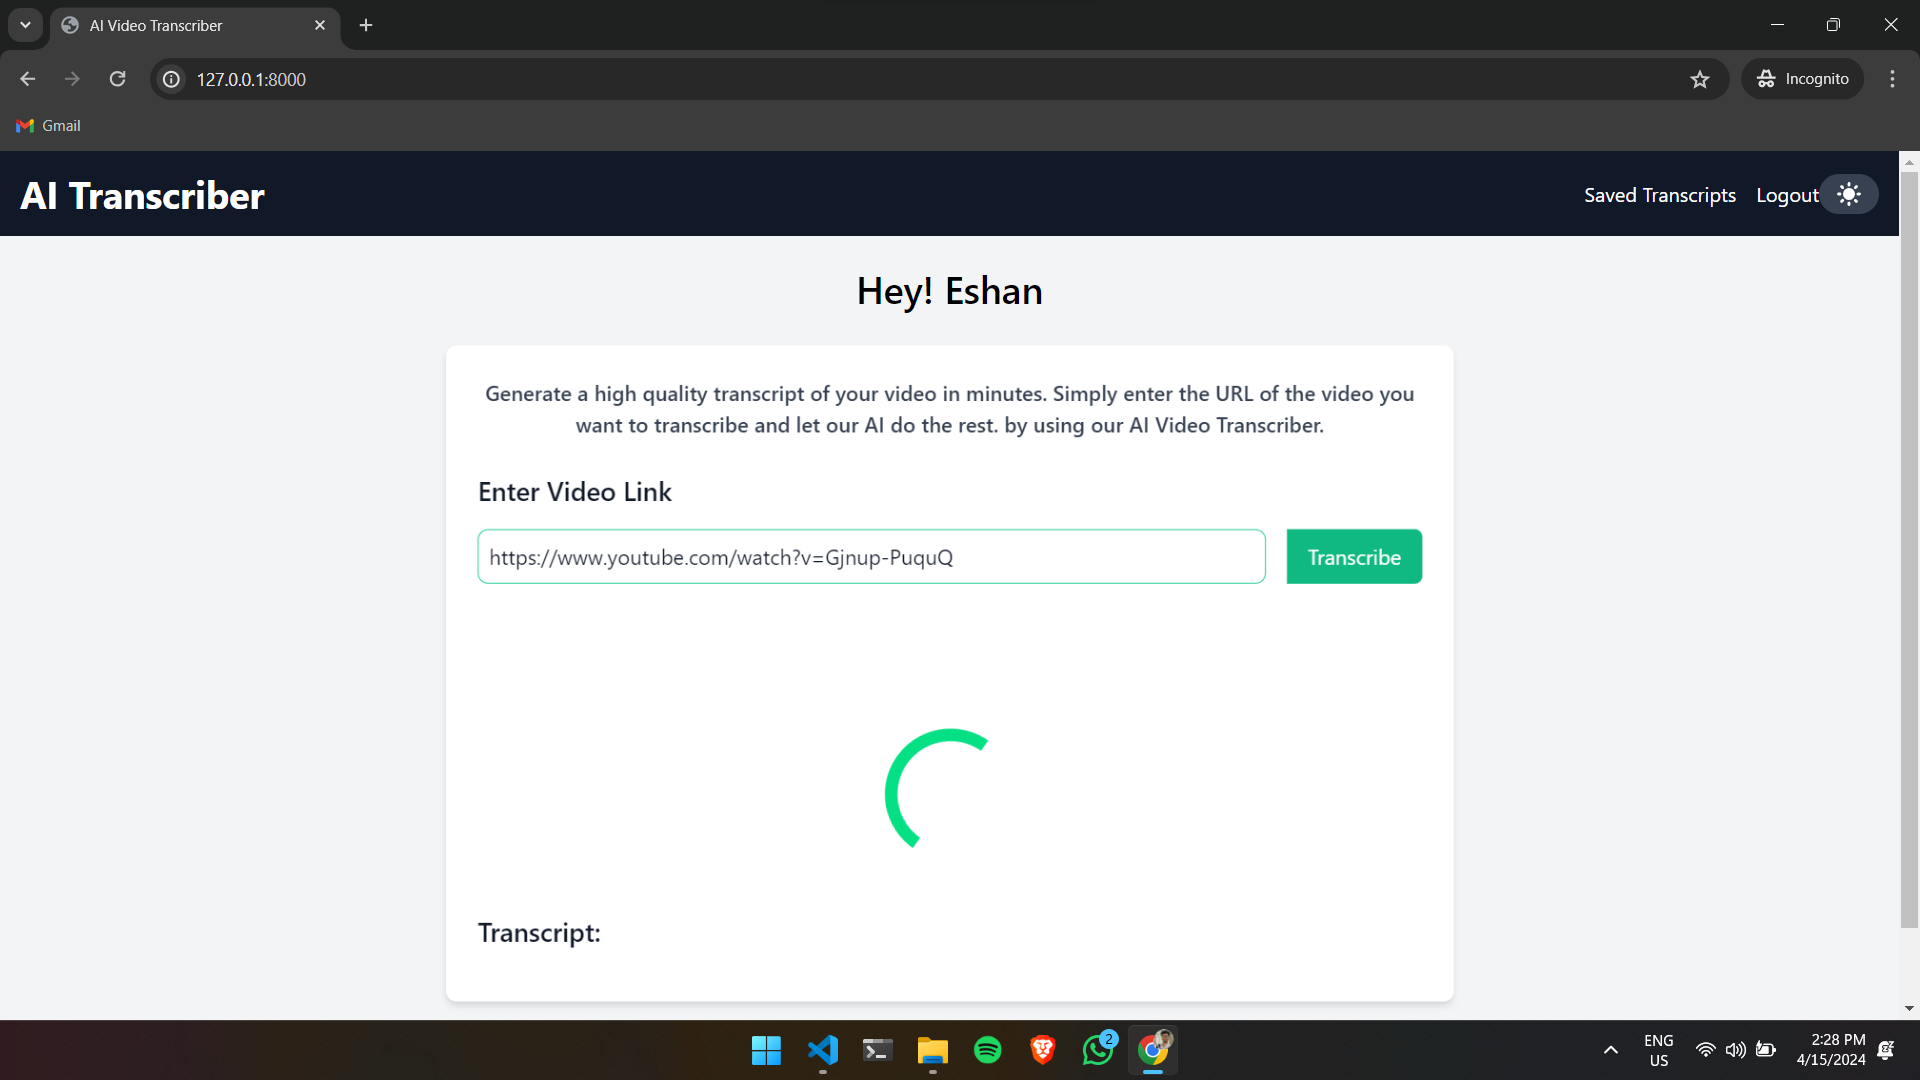
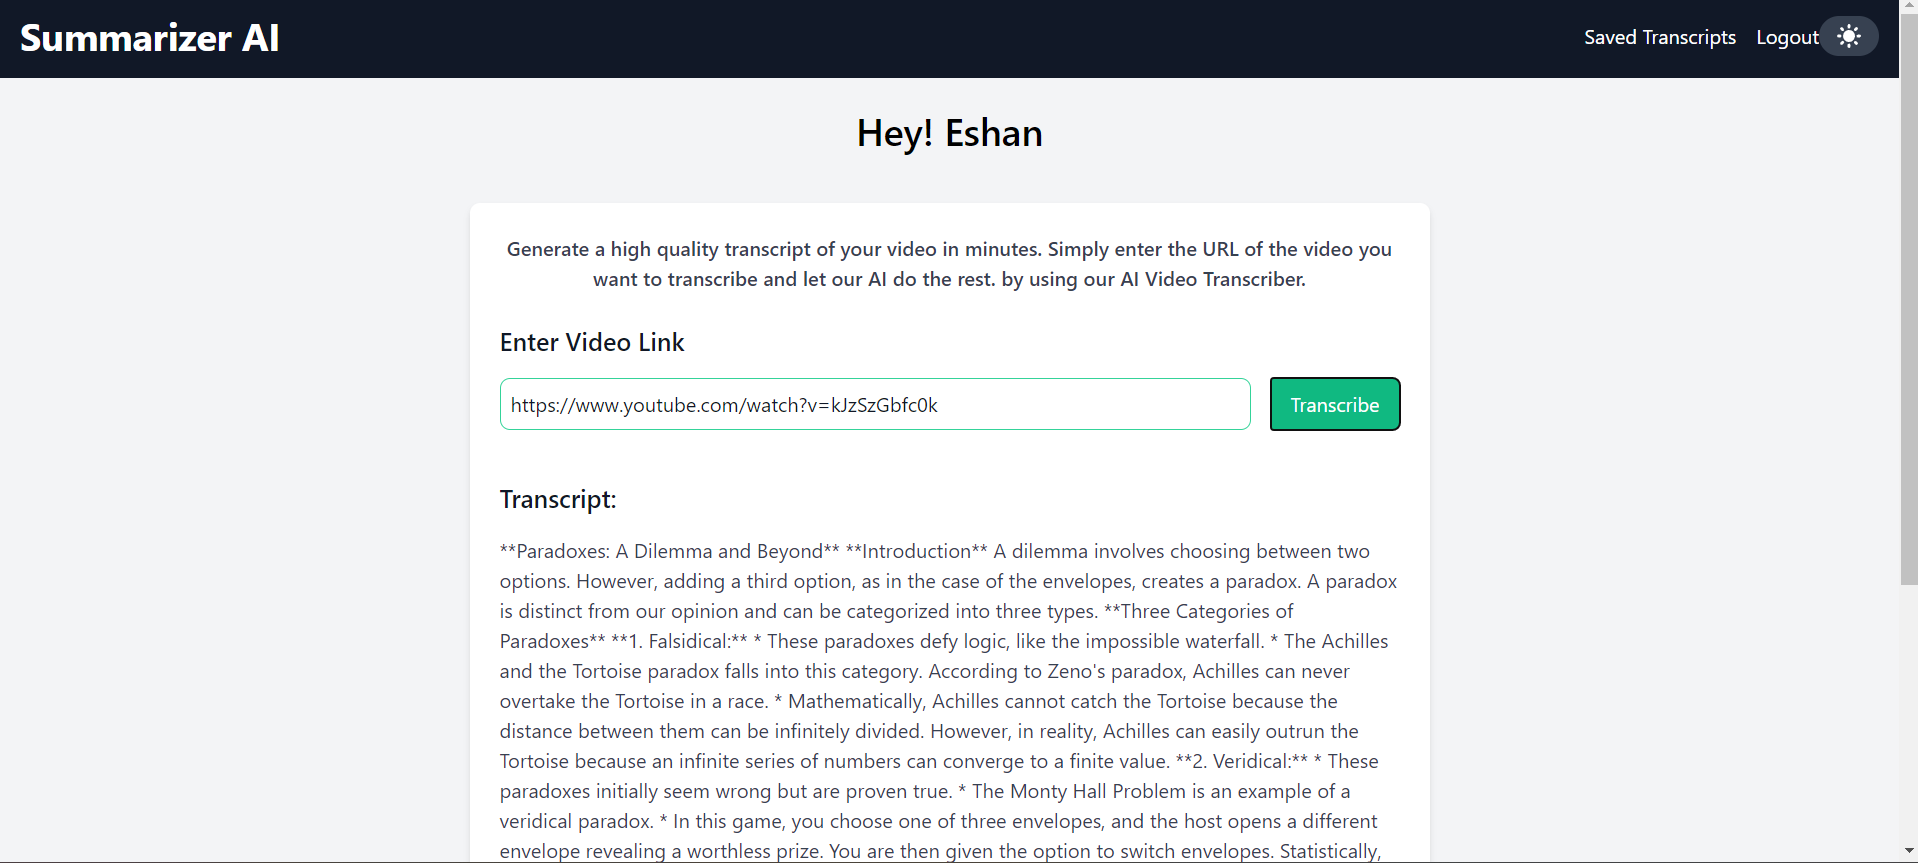
readme and saving

diff --git a/backend/ai_transcriber_app/templates/full-article.html b/backend/ai_transcriber_app/templates/full-article.html
@@ -5,17 +5,19 @@
     <meta name="viewport" content="width=device-width, initial-scale=1.0">
     <title>Transcript Details</title>
   <link href="https://cdn.jsdelivr.net/npm/tailwindcss@2.2.19/dist/tailwind.min.css" rel="stylesheet">
+  <link rel="stylesheet" href="https://cdnjs.cloudflare.com/ajax/libs/font-awesome/4.7.0/css/font-awesome.min.css" />
+
 
 </head>
 <body class="bg-gray-100 font-sans antialiased">
   <!-- Navbar -->
   <nav class="bg-gray-900 dark:bg-gray-800 p-4 text-white flex justify-between">
     <div>
-      <h1 class="text-3xl font-bold">AI Transcriber</h1>
+      <h1 class="text-3xl font-bold">Summarizer AI</h1>
     </div>
     <div class="flex items-center">
       <a href="" class="text-white hover:underline mx-4">Saved Transcripts</a>
-      <a href="" class="text-white hover:underline">Logout</a>
+      <a href="{% url 'logout' %}" class="text-white hover:underline">Logout</a>
       <!-- Dark Mode Button -->
       <button id="darkModeToggle" class="bg-gray-700 dark:bg-yellow-300 text-white dark:text-gray-800 rounded-full px-3 py-1 transition-colors duration-300">
         <svg id="sunIcon" class="w-6 h-6 dark:hidden" fill="currentColor" viewBox="0 0 20 20" xmlns="http://www.w3.org/2000/svg">
@@ -32,22 +34,21 @@
     <div class="container mx-auto mt-10 px-4 sm:px-0">
         <div class="max-w-3xl mx-auto bg-white p-6 rounded-lg shadow-md">
     <section>
-        <h2 class="text-xl mb-4 font-semibold">Full Transcript</h2>
+        <h2 class="text-xl mb-4 font-semibold">Full Summary</h2>
         <div class="border border-gray-300 p-4 rounded-lg">
-            <h3 class="text-lg font-semibold">TITLE OF Transcript</h3>
-            <p>THIS IS THE TRANSCRPT</p>
+            <h3 class="text-lg font-semibold">{{full_article.video_title}}</h3>
+            <p>{{full_article.generated_content}}</p>
             <hr class="my-4 border-gray-300"></hr>
-            <h4 class="text-lg font-semibold">Video Title</h4>
-            <p class="text-gray-700">Title of the transcibed video</p>
-            <h4 class="text-lg font-semibold mt-4 ">Link to the video</h4>
-            <a href="#" class="text-blue-600 hover:underline">https://www.youtube.com/watch?v=JGwWNGJdvx8</a>
+            <h4 class="text-lg font-semibold">{{full_article.video_title}}</h4>
+            <p class="text-gray-700">{{full_article.video_title}}</p>
+            <h4 class="text-lg font-semibold mt-4 ">YouTube Link</h4>
+            <a href="#" class="text-blue-600 hover:underline">{{full_article.youtube_link}}</a>
         </div>
     </section>
     
     <footer>
         <div class="text-center p-4 text-black mt-8">
             <div class="content has-text-centered">
-                <p>Made with ❤</p>
                 <a href="https://github.com/eshanpandey"><i class="fa fa-github" style="font-size:36px"></i></a>
             </div>
         </div>

diff --git a/backend/ai_transcriber_app/templates/all-scripts.html b/backend/ai_transcriber_app/templates/all-scripts.html
@@ -11,7 +11,7 @@
 <body class="bg-gray-100 font-sans anti">
     <nav class="bg-gray-900 dark:bg-gray-800 p-4 text-white flex justify-between">
         <div>
-          <h1 class="text-3xl font-bold">AI Transcriber</h1>
+          <h1 class="text-3xl font-bold">Summarizer AI</h1>
         </div>
         <div class="flex items-center">
           <a href="" class="text-white hover:underline mx-4">Saved Transcripts</a>
@@ -34,15 +34,15 @@
     <section>
         <h2 class="text-xl mb-4 font-semibold ">All Transcripts</h2>
         <div class="space-y-4">
+
+          {% for article in articles reversed %}
+          <a href="full-article/{{article.id}}">
            <div class="border border-gray-300 p-4 rounded-lg">
-            <h3 class="text-lg font-semibold" >Transcripts title</h3>
-            <p>Transcript content goes here.</p>
+            <h3 class="text-lg font-semibold" >{{article.video_title}}</h3>
+            <p>{{article.generated_content|truncatechars:80}}</p>
            </div>
-           <div class="border border-gray-300 p-4 rounded-lg">
-            <h3 class="text-lg font-semibold" >Transcripts title</h3>
-            <p>Transcript content goes here.</p>
-           </div>
-           
+           </a>
+           {% endfor %}
         </div>
     </section>
 </div>
@@ -50,7 +50,7 @@
     <footer>
         <div class="text-center p-4 text-black mt-8">
             <div class="content has-text-centered">
-                <p>Made with ❤</p>
+              
                 <a href="https://github.com/eshanpandey"><i class="fa fa-github" style="font-size:36px"></i></a>
             </div>
         </div>

diff --git a/backend/ai_transcriber_app/templates/index.html b/backend/ai_transcriber_app/templates/index.html
@@ -3,7 +3,7 @@
 <head>
   <meta charset="UTF-8">
   <meta name="viewport" content="width=device-width, initial-scale=1.0">
-  <title>AI Video Transcriber</title>
+  <title>Summarizer AI</title>
   <link href="https://cdn.jsdelivr.net/npm/tailwindcss@2.2.19/dist/tailwind.min.css" rel="stylesheet">
   <link rel="stylesheet" href="https://cdnjs.cloudflare.com/ajax/libs/font-awesome/4.7.0/css/font-awesome.min.css" />
   
@@ -56,7 +56,7 @@
   <!-- Navbar -->
   <nav class="bg-gray-900 dark:bg-gray-800 p-4 text-white flex justify-between">
     <div>
-      <h1 class="text-3xl font-bold">AI Transcriber</h1>
+      <h1 class="text-3xl font-bold">Summarizer AI</h1>
     </div>
     <div class="flex items-center">
       <a href="allscripts" class="text-white hover:underline mx-4">Saved Transcripts</a>

diff --git a/backend/ai_transcriber_app/templates/login.html b/backend/ai_transcriber_app/templates/login.html
@@ -10,7 +10,7 @@
 
     <nav class="bg-gray-900 dark:bg-gray-800 p-4 text-white flex justify-between">
         <div>
-          <h1 class="text-3xl font-bold">AI Transcriber</h1>
+          <h1 class="text-3xl font-bold">Summarizer AI</h1>
         </div>
         <div class="flex items-center">
           <a href="signup" class="text-white hover:underline ">Signup</a>

diff --git a/backend/ai_transcriber_app/templates/signup.html b/backend/ai_transcriber_app/templates/signup.html
@@ -10,7 +10,7 @@
 
     <nav class="bg-gray-900 dark:bg-gray-800 p-4 text-white flex justify-between">
         <div>
-          <h1 class="text-3xl font-bold">AI Transcriber</h1>
+          <h1 class="text-3xl font-bold">Summarizer AI</h1>
         </div>
         <div class="flex items-center">
           <a href="" class="text-white hover:underline ">Login</a>

diff --git a/backend/ai_transcriber_app/transcript_generator/views.py b/backend/ai_transcriber_app/transcript_generator/views.py
@@ -121,7 +121,7 @@ def generate_transcript(request):
         # save article to database
         new_article_post = ArticlePost.objects.create(
             user=request.user,
-            youtube_title=title,
+            video_title=title,
             youtube_link=yt_link,
             generated_content=article_content,
         )
@@ -136,7 +136,8 @@ def generate_transcript(request):
 
 @login_required
 def all_scripts(request):
-    return render(request,'all-scripts.html')
+    articles=ArticlePost.objects.filter(user=request.user)
+    return render(request,'all-scripts.html',{'articles': articles})   
 
 
 def user_logout(request):
@@ -174,4 +175,9 @@ def generate_article(transcript,prompt):
  response=model.generate_content(prompt+transcript)
  return response.text
 
-
+def full_article(request,pk):
+    full_article=ArticlePost.objects.get(id=pk)
+    if request.user == full_article.user:
+        return render (request,'full-article.html',{'full_article': full_article})
+    else:
+        return redirect('/')

diff --git a/backend/ai_transcriber_app/transcript_generator/models.py b/backend/ai_transcriber_app/transcript_generator/models.py
@@ -3,7 +3,7 @@ from django.contrib.auth.models import User
 # Create your models here.
 class ArticlePost(models.Model):
     user=models.ForeignKey(User, on_delete=models.CASCADE)#user who created the article
-    youtube_title=models.CharField(max_length=300)
+    video_title=models.CharField(max_length=300)
     youtube_link = models.URLField(max_length=300)
     generated_content=models.TextField()
     created_at=models.DateTimeField(auto_now_add=True)

diff --git a/backend/ai_transcriber_app/transcript_generator/migrations/0003_rename_youtube_title_articlepost_video_title.py b/backend/ai_transcriber_app/transcript_generator/migrations/0003_rename_youtube_title_articlepost_video_title.py
@@ -1,0 +1,18 @@
+# Generated by Django 5.0.2 on 2024-04-15 09:51
+
+from django.db import migrations
+
+
+class Migration(migrations.Migration):
+
+    dependencies = [
+        ('transcript_generator', '0002_rename_video_link_articlepost_youtube_link_and_more'),
+    ]
+
+    operations = [
+        migrations.RenameField(
+            model_name='articlepost',
+            old_name='youtube_title',
+            new_name='video_title',
+        ),
+    ]

diff --git a/backend/ai_transcriber_app/transcript_generator/urls.py b/backend/ai_transcriber_app/transcript_generator/urls.py
@@ -6,6 +6,10 @@ urlpatterns = [
    path('signup',views.user_signup, name='signup'),
    path('logout',views.user_logout, name='logout'),
    path('allscripts',views.all_scripts, name='all-scripts'),
-   path('generate-transcript',views.generate_transcript,name='generate-transcript')
+   path('generate-transcript',views.generate_transcript,name='generate-transcript'),
+   path('full-article/<int:pk>/',views.full_article,name='full-article'),
+
+
+
 
 ]
